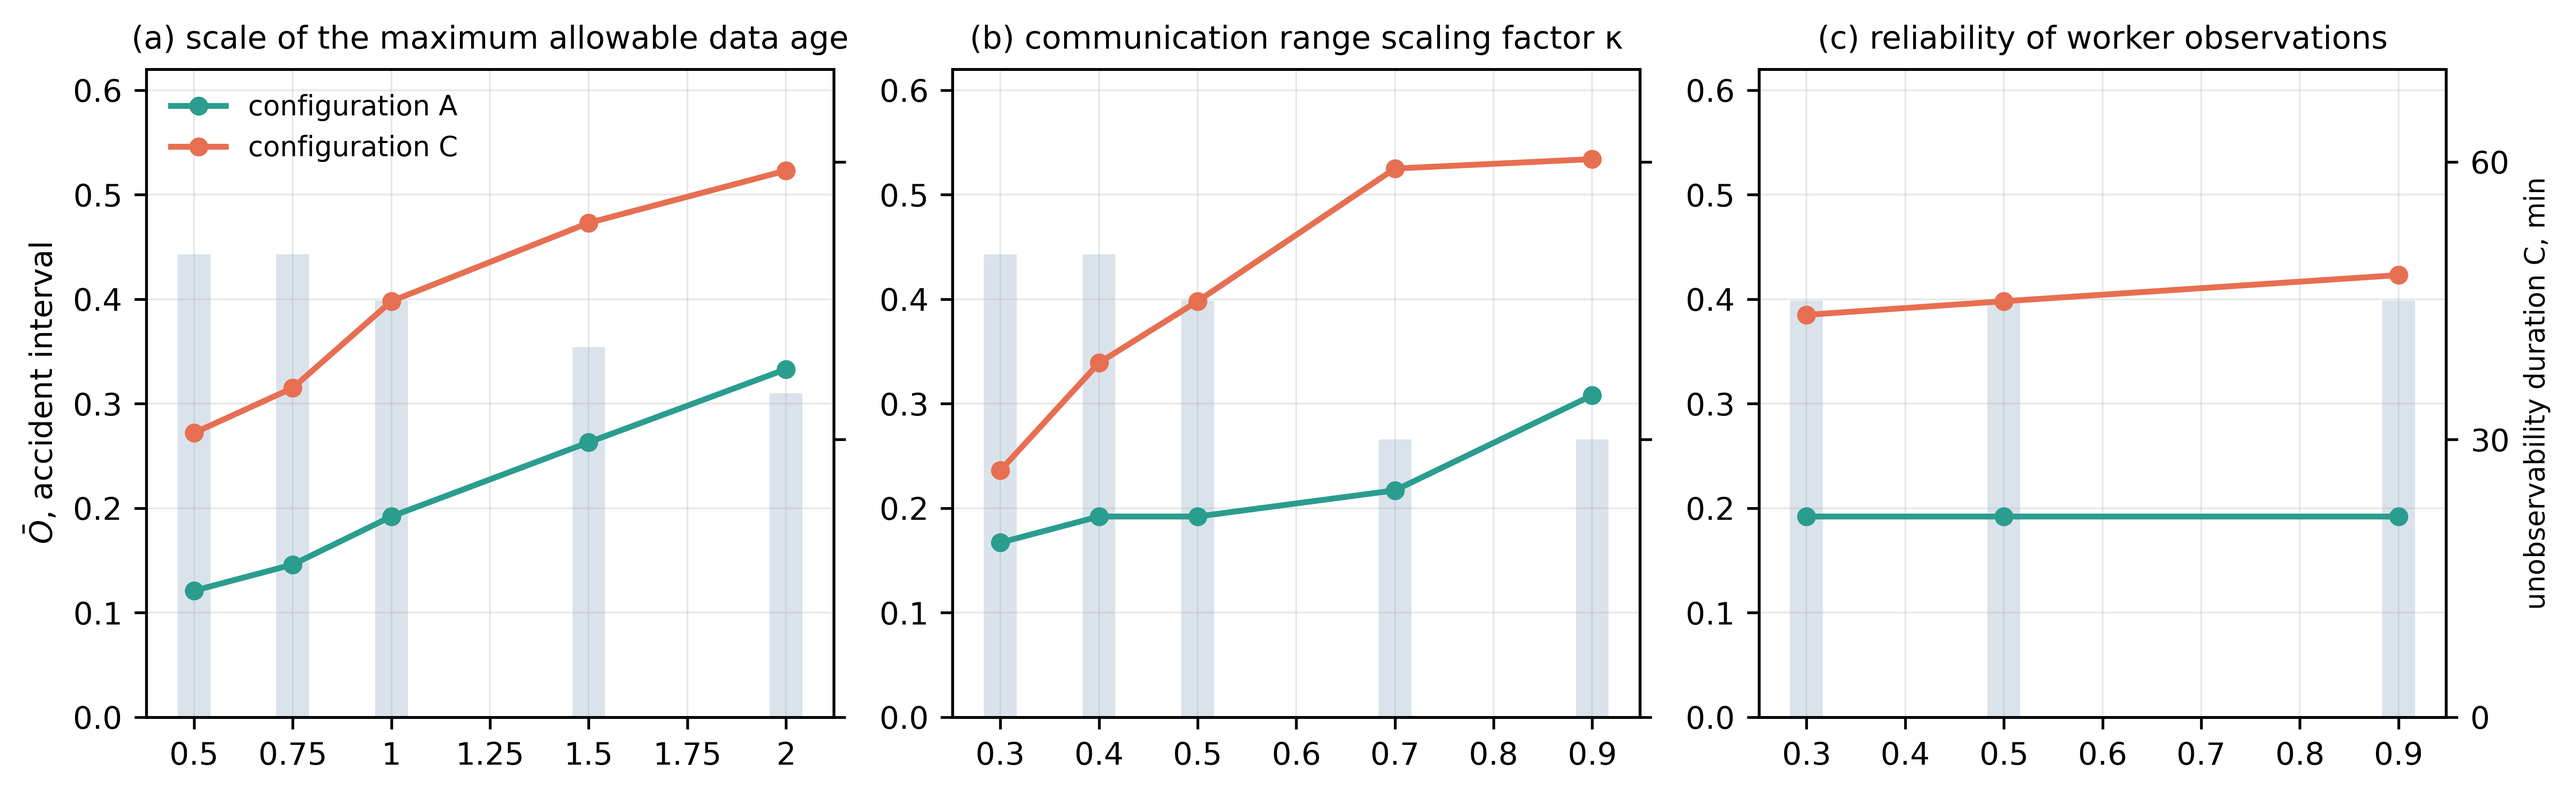
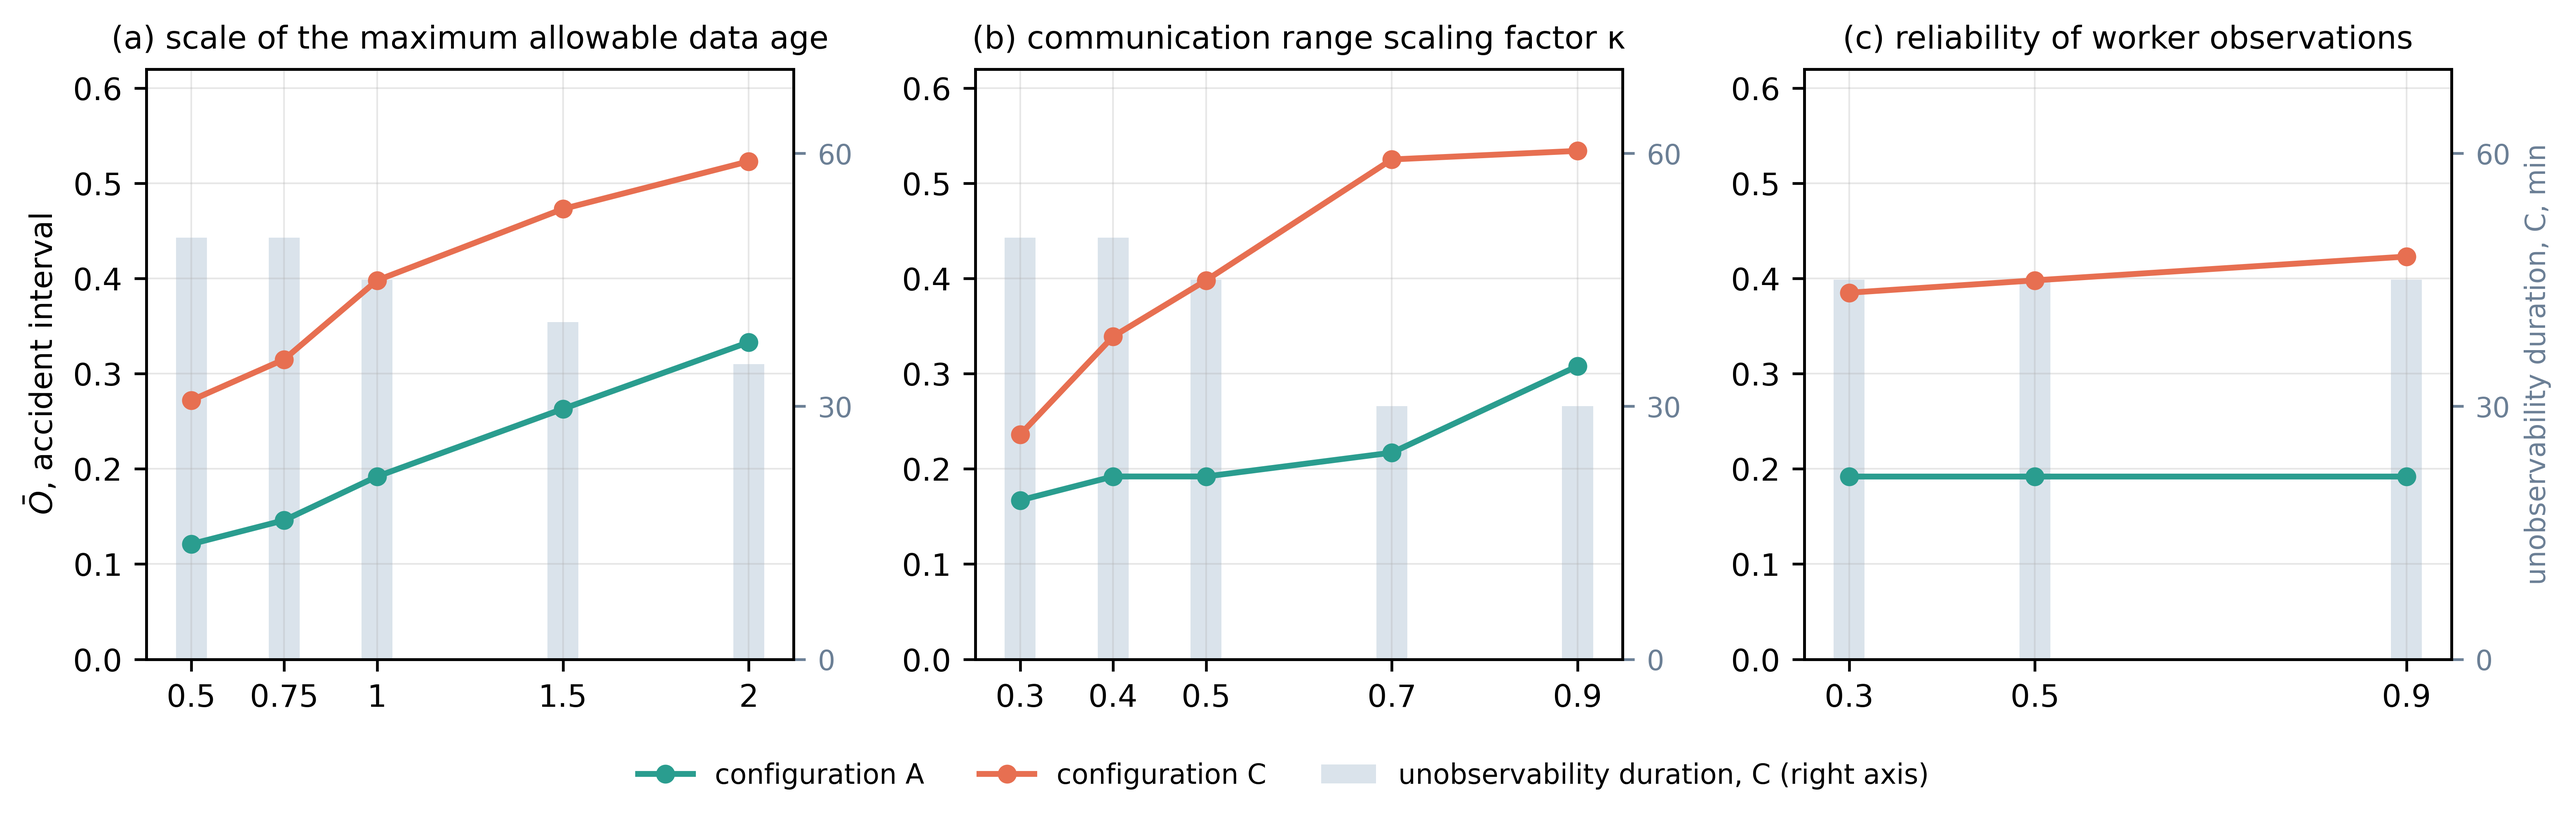
updated figures2.py script

diff --git a/figures/sources/figures2.py b/figures/sources/figures2.py
@@ -41,15 +41,20 @@ for ax, (key, title) in zip(axs, titles.items()):
     ax2.bar(xs, [int(r["unobservable C, min"]) for r in g], width=(max(xs)-min(xs))/18,
             color="#bcccdc", alpha=.55, zorder=0)
     ax2.set_ylim(0, 70); ax2.set_yticks([0, 30, 60])
-    if ax is axs[-1]: ax2.set_ylabel("unobservability duration C, min", fontsize=8)
-    else: ax2.set_yticklabels([])
+    ax2.tick_params(axis="y", labelsize=8, colors="#6b7f95")
+    if ax is axs[-1]: ax2.set_ylabel("unobservability duration, C, min", fontsize=8, color="#6b7f95")
     ax.set_zorder(ax2.get_zorder() + 1); ax.patch.set_visible(False)
     ax.set_title(title, fontsize=9.2); ax.set_ylim(0, 0.62); ax.grid(alpha=.3, lw=.5)
     ax.yaxis.set_major_formatter(comma)
+    ax.set_xticks(xs)
     ax.xaxis.set_major_formatter(FuncFormatter(lambda v, p: f"{v:g}"))
 axs[0].set_ylabel("$\\bar{O}$, accident interval")
-axs[0].legend(fontsize=8, frameon=False, loc="upper left")
-plt.tight_layout()
+from matplotlib.patches import Patch
+h, l = axs[0].get_legend_handles_labels()
+h.append(Patch(facecolor="#bcccdc", alpha=.55, edgecolor="none"))
+l.append("unobservability duration, C (right axis)")
+fig.legend(h, l, fontsize=8, frameon=False, loc="lower center", ncol=3, bbox_to_anchor=(0.5, -0.01))
+plt.tight_layout(w_pad=1.6, rect=[0, 0.07, 1, 1])
 plt.savefig(OUT + "/fig_sensitivity.png", dpi=600, bbox_inches="tight")
 plt.close()
 
